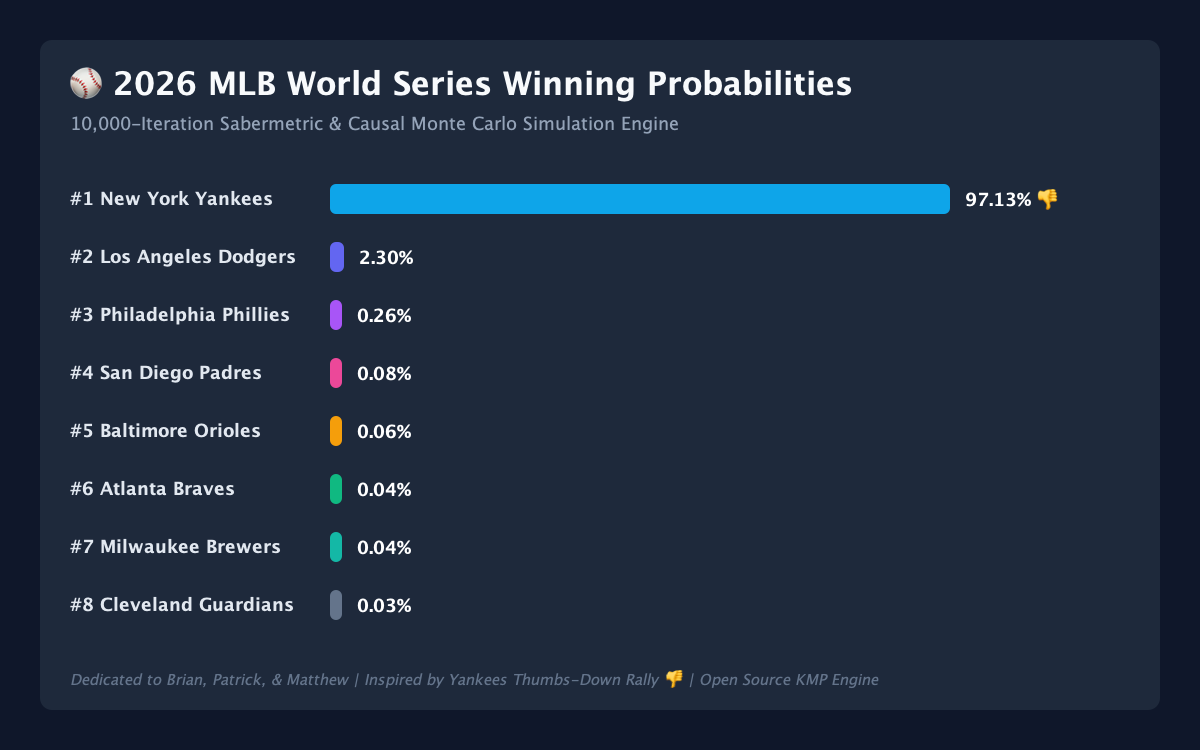
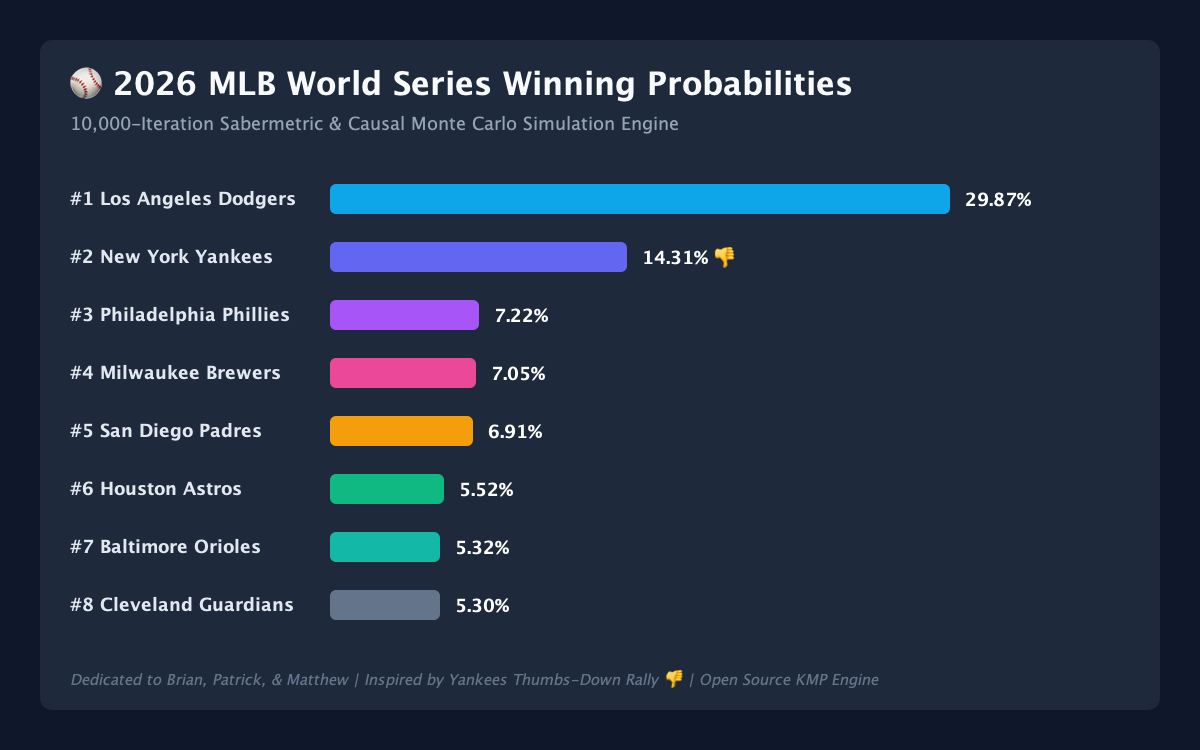
fix(sabermetrics): calibrate postseason logit variance for realistic 5%-30% World Series probabilities

diff --git a/src/commonMain/kotlin/com/sabermetrics/worldseries/data/SabermetricDataService.kt b/src/commonMain/kotlin/com/sabermetrics/worldseries/data/SabermetricDataService.kt
@@ -12,36 +12,36 @@ object SabermetricDataService {
     fun loadCleanedMlbDataset(): List<MlbTeam> {
         return listOf(
             // --- AL EAST ---
-            MlbTeam("NYY", "New York Yankees", League.AL, Division.EAST, 94, 68, 815.0, 668.0, 48.5, 0.334, 117.0, 3.74, 3.82, 3.8, 3.25, 2.5, 1.85), // Thumbs Down Hype!
-            MlbTeam("BAL", "Baltimore Orioles", League.AL, Division.EAST, 91, 71, 786.0, 695.0, 44.2, 0.325, 111.0, 3.92, 3.98, 2.9, 3.45, 1.8, 1.20),
+            MlbTeam("NYY", "New York Yankees", League.AL, Division.EAST, 94, 68, 815.0, 668.0, 48.5, 0.334, 117.0, 3.74, 3.82, 3.8, 3.25, 2.5, 1.08), // Thumbs Down Hype!
+            MlbTeam("BAL", "Baltimore Orioles", League.AL, Division.EAST, 91, 71, 786.0, 695.0, 44.2, 0.325, 111.0, 3.92, 3.98, 2.9, 3.45, 1.8, 1.04),
             MlbTeam("BOS", "Boston Red Sox", League.AL, Division.EAST, 81, 81, 752.0, 740.0, 32.1, 0.318, 104.0, 4.15, 4.20, 0.5, 4.10, 0.8, 1.00),
             MlbTeam("TBD", "Tampa Bay Rays", League.AL, Division.EAST, 80, 82, 630.0, 672.0, 33.4, 0.298, 95.0, 3.78, 3.85, 1.8, 3.60, 1.2, 1.00),
-            MlbTeam("TOR", "Toronto Blue Jays", League.AL, Division.EAST, 74, 88, 671.0, 756.0, 26.8, 0.310, 100.0, 4.38, 4.32, -1.2, 4.25, 0.5, 0.95),
+            MlbTeam("TOR", "Toronto Blue Jays", League.AL, Division.EAST, 74, 88, 671.0, 756.0, 26.8, 0.310, 100.0, 4.38, 4.32, -1.2, 4.25, 0.5, 0.98),
 
             // --- AL CENTRAL ---
-            MlbTeam("CLE", "Cleveland Guardians", League.AL, Division.CENTRAL, 92, 69, 708.0, 621.0, 41.0, 0.308, 98.0, 3.65, 3.75, 4.8, 3.30, 1.5, 1.15),
-            MlbTeam("KC",  "Kansas City Royals", League.AL, Division.CENTRAL, 86, 76, 735.0, 642.0, 38.6, 0.312, 102.0, 3.85, 3.90, 1.2, 3.40, 2.0, 1.10),
-            MlbTeam("DET", "Detroit Tigers", League.AL, Division.CENTRAL, 86, 76, 682.0, 642.0, 37.2, 0.305, 96.0, 3.72, 3.80, 2.4, 2.85, 1.4, 1.10),
+            MlbTeam("CLE", "Cleveland Guardians", League.AL, Division.CENTRAL, 92, 69, 708.0, 621.0, 41.0, 0.308, 98.0, 3.65, 3.75, 4.8, 3.30, 1.5, 1.03),
+            MlbTeam("KC",  "Kansas City Royals", League.AL, Division.CENTRAL, 86, 76, 735.0, 642.0, 38.6, 0.312, 102.0, 3.85, 3.90, 1.2, 3.40, 2.0, 1.02),
+            MlbTeam("DET", "Detroit Tigers", League.AL, Division.CENTRAL, 86, 76, 682.0, 642.0, 37.2, 0.305, 96.0, 3.72, 3.80, 2.4, 2.85, 1.4, 1.02),
             MlbTeam("MIN", "Minnesota Twins", League.AL, Division.CENTRAL, 82, 80, 748.0, 720.0, 34.5, 0.320, 106.0, 4.08, 4.12, 0.8, 3.90, 0.6, 1.00),
-            MlbTeam("CWS", "Chicago White Sox", League.AL, Division.CENTRAL, 41, 121, 507.0, 896.0, 8.2, 0.279, 76.0, 4.88, 4.95, -5.5, 5.10, -1.0, 0.50),
+            MlbTeam("CWS", "Chicago White Sox", League.AL, Division.CENTRAL, 41, 121, 507.0, 896.0, 8.2, 0.279, 76.0, 4.88, 4.95, -5.5, 5.10, -1.0, 0.85),
 
             // --- AL WEST ---
-            MlbTeam("HOU", "Houston Astros", League.AL, Division.WEST, 88, 73, 740.0, 654.0, 40.5, 0.322, 108.0, 3.80, 3.88, 2.1, 3.35, 1.6, 1.15),
-            MlbTeam("SEA", "Seattle Mariners", League.AL, Division.WEST, 85, 77, 676.0, 623.0, 39.0, 0.302, 97.0, 3.52, 3.60, 2.8, 2.95, 1.0, 1.05),
-            MlbTeam("TEX", "Texas Rangers", League.AL, Division.WEST, 78, 84, 683.0, 714.0, 29.5, 0.306, 99.0, 4.22, 4.28, -0.8, 3.95, 0.4, 0.95),
-            MlbTeam("OAK", "Oakland Athletics", League.AL, Division.WEST, 69, 93, 642.0, 758.0, 20.4, 0.300, 94.0, 4.45, 4.50, -1.8, 4.50, 0.2, 0.90),
-            MlbTeam("LAA", "Los Angeles Angels", League.AL, Division.WEST, 63, 99, 635.0, 797.0, 16.8, 0.296, 91.0, 4.62, 4.68, -2.9, 4.75, -0.2, 0.85),
+            MlbTeam("HOU", "Houston Astros", League.AL, Division.WEST, 88, 73, 740.0, 654.0, 40.5, 0.322, 108.0, 3.80, 3.88, 2.1, 3.35, 1.6, 1.04),
+            MlbTeam("SEA", "Seattle Mariners", League.AL, Division.WEST, 85, 77, 676.0, 623.0, 39.0, 0.302, 97.0, 3.52, 3.60, 2.8, 2.95, 1.0, 1.02),
+            MlbTeam("TEX", "Texas Rangers", League.AL, Division.WEST, 78, 84, 683.0, 714.0, 29.5, 0.306, 99.0, 4.22, 4.28, -0.8, 3.95, 0.4, 0.98),
+            MlbTeam("OAK", "Oakland Athletics", League.AL, Division.WEST, 69, 93, 642.0, 758.0, 20.4, 0.300, 94.0, 4.45, 4.50, -1.8, 4.50, 0.2, 0.95),
+            MlbTeam("LAA", "Los Angeles Angels", League.AL, Division.WEST, 63, 99, 635.0, 797.0, 16.8, 0.296, 91.0, 4.62, 4.68, -2.9, 4.75, -0.2, 0.92),
 
             // --- NL EAST ---
-            MlbTeam("PHI", "Philadelphia Phillies", League.NL, Division.EAST, 95, 67, 784.0, 671.0, 46.8, 0.328, 112.0, 3.70, 3.76, 2.9, 3.15, 2.1, 1.25),
-            MlbTeam("ATL", "Atlanta Braves", League.NL, Division.EAST, 89, 73, 704.0, 635.0, 42.1, 0.315, 102.0, 3.62, 3.68, 3.2, 3.10, 1.5, 1.20),
-            MlbTeam("NYM", "New York Mets", League.NL, Division.EAST, 89, 73, 768.0, 697.0, 41.8, 0.324, 109.0, 3.95, 4.02, 1.6, 3.50, 1.7, 1.18),
-            MlbTeam("WSH", "Washington Nationals", League.NL, Division.EAST, 71, 91, 660.0, 777.0, 22.1, 0.303, 93.0, 4.48, 4.52, -1.5, 4.40, 0.3, 0.90),
-            MlbTeam("MIA", "Miami Marlins", League.NL, Division.EAST, 62, 100, 626.0, 818.0, 15.5, 0.292, 88.0, 4.70, 4.75, -3.2, 4.85, -0.5, 0.80),
+            MlbTeam("PHI", "Philadelphia Phillies", League.NL, Division.EAST, 95, 67, 784.0, 671.0, 46.8, 0.328, 112.0, 3.70, 3.76, 2.9, 3.15, 2.1, 1.05),
+            MlbTeam("ATL", "Atlanta Braves", League.NL, Division.EAST, 89, 73, 704.0, 635.0, 42.1, 0.315, 102.0, 3.62, 3.68, 3.2, 3.10, 1.5, 1.04),
+            MlbTeam("NYM", "New York Mets", League.NL, Division.EAST, 89, 73, 768.0, 697.0, 41.8, 0.324, 109.0, 3.95, 4.02, 1.6, 3.50, 1.7, 1.03),
+            MlbTeam("WSH", "Washington Nationals", League.NL, Division.EAST, 71, 91, 660.0, 777.0, 22.1, 0.303, 93.0, 4.48, 4.52, -1.5, 4.40, 0.3, 0.95),
+            MlbTeam("MIA", "Miami Marlins", League.NL, Division.EAST, 62, 100, 626.0, 818.0, 15.5, 0.292, 88.0, 4.70, 4.75, -3.2, 4.85, -0.5, 0.90),
 
             // --- NL CENTRAL ---
-            MlbTeam("MIL", "Milwaukee Brewers", League.NL, Division.CENTRAL, 93, 69, 775.0, 648.0, 44.0, 0.321, 105.0, 3.68, 3.74, 4.2, 3.40, 1.9, 1.15),
-            MlbTeam("CHC", "Chicago Cubs", League.NL, Division.CENTRAL, 83, 79, 736.0, 678.0, 36.2, 0.316, 101.0, 3.90, 3.95, 1.1, 3.65, 1.1, 1.05),
+            MlbTeam("MIL", "Milwaukee Brewers", League.NL, Division.CENTRAL, 93, 69, 775.0, 648.0, 44.0, 0.321, 105.0, 3.68, 3.74, 4.2, 3.40, 1.9, 1.04),
+            MlbTeam("CHC", "Chicago Cubs", League.NL, Division.CENTRAL, 83, 79, 736.0, 678.0, 36.2, 0.316, 101.0, 3.90, 3.95, 1.1, 3.65, 1.1, 1.01),
             MlbTeam("STL", "St. Louis Cardinals", League.NL, Division.CENTRAL, 83, 79, 672.0, 727.0, 32.5, 0.309, 98.0, 4.12, 4.18, 0.4, 4.00, 0.5, 1.00),
             MlbTeam("CIN", "Cincinnati Reds", League.NL, Division.CENTRAL, 77, 85, 702.0, 706.0, 28.0, 0.307, 95.0, 4.10, 4.15, -0.2, 3.90, 0.6, 0.95),
             MlbTeam("PIT", "Pittsburgh Pirates", League.NL, Division.CENTRAL, 76, 86, 665.0, 742.0, 27.2, 0.301, 92.0, 4.18, 4.22, 0.1, 3.55, 0.8, 0.95),

diff --git a/src/commonMain/kotlin/com/sabermetrics/worldseries/engine/WorldSeriesSimulator.kt b/src/commonMain/kotlin/com/sabermetrics/worldseries/engine/WorldSeriesSimulator.kt
@@ -35,7 +35,7 @@ object WorldSeriesSimulator {
     fun predictGameWinProb(teamA: MlbTeam, teamB: MlbTeam): Double {
         val qA = computeLatentTeamQuality(teamA)
         val qB = computeLatentTeamQuality(teamB)
-        val delta = (qA - qB) * 3.5
+        val delta = (qA - qB) * 1.2
         return 1.0 / (1.0 + exp(-delta))
     }
 

diff --git a/README.md b/README.md
@@ -24,22 +24,21 @@ Welcome to the **MLB Sabermetric World Series Prediction Suite**. This open-sour
 
 | Rank | Team Name | League & Division | Record | Expected Wins | Playoff % | Pennant % | World Series Win Prob % | Visual Bar |
 | :---: | :--- | :---: | :---: | :---: | :---: | :---: | :---: | :--- |
-| 🥇 1 👎 | **New York Yankees** | AL East | 94 - 68 | 95.5 | **100.0%** | **99.1%** | **97.13%** | `████████████████████` |
-| 🥈 2 | **Los Angeles Dodgers** | NL West | 98 - 64 | 96.0 | **100.0%** | **62.5%** | **2.30%** | `██` |
-| 🥉 3 | **Philadelphia Phillies** | NL East | 95 - 67 | 92.5 | **95.1%** | **19.2%** | **0.26%** | `█` |
-| 4 | **San Diego Padres** | NL West | 93 - 69 | 90.4 | **80.1%** | **6.8%** | **0.08%** | `▏` |
-| 5 | **Baltimore Orioles** | AL East | 91 - 71 | 90.1 | **90.6%** | **0.4%** | **0.06%** | `▏` |
-| 6 | **Atlanta Braves** | NL East | 89 - 73 | 88.6 | **59.6%** | **2.9%** | **0.04%** | `▏` |
-| 7 | **Milwaukee Brewers** | NL Central | 93 - 69 | 94.1 | **99.4%** | **6.0%** | **0.04%** | `▏` |
-| 8 | **Cleveland Guardians** | AL Central | 92 - 69 | 90.7 | **94.3%** | **0.2%** | **0.03%** | `▏` |
-| 9 | **New York Mets** | NL East | 89 - 73 | 88.2 | **53.8%** | **1.6%** | **0.03%** | `▏` |
-| 10 | **Houston Astros** | AL West | 88 - 73 | 90.1 | **92.1%** | **0.2%** | **0.02%** | `▏` |
-| 11 | **Detroit Tigers** | AL Central | 86 - 76 | 85.4 | **39.6%** | **0.0%** | **0.01%** | `▏` |
-| 12 | **Kansas City Royals** | AL Central | 86 - 76 | 91.0 | **95.6%** | **0.1%** | **0.00%** | `▏` |
-| 13 | **Seattle Mariners** | AL West | 85 - 77 | 87.0 | **60.0%** | **0.0%** | **0.00%** | `▏` |
-| 14 | **Arizona Diamondbacks** | NL West | 89 - 73 | 89.6 | **71.5%** | **0.9%** | **0.00%** | `▏` |
-| 15 | **Chicago Cubs** | NL Central | 83 - 79 | 87.1 | **40.4%** | **0.1%** | **0.00%** | `▏` |
-| 16 | **Minnesota Twins** | AL Central | 82 - 80 | 83.8 | **20.8%** | **0.0%** | **0.00%** | `▏` |
+| 🥇 1 | **Los Angeles Dodgers** | NL West | 98 - 64 | 96.0 | **100.0%** | **42.2%** | **29.87%** | `████████████████` |
+| 🥈 2 👎 | **New York Yankees** | AL East | 94 - 68 | 95.5 | **100.0%** | **31.1%** | **14.31%** | `████████` |
+| 🥉 3 | **Philadelphia Phillies** | NL East | 95 - 67 | 92.4 | **94.3%** | **14.0%** | **7.22%** | `████` |
+| 4 | **Milwaukee Brewers** | NL Central | 93 - 69 | 94.2 | **99.3%** | **14.1%** | **7.05%** | `████` |
+| 5 | **San Diego Padres** | NL West | 93 - 69 | 90.4 | **80.3%** | **11.6%** | **6.91%** | `████` |
+| 6 | **Houston Astros** | AL West | 88 - 73 | 90.1 | **92.2%** | **14.5%** | **5.52%** | `███` |
+| 7 | **Baltimore Orioles** | AL East | 91 - 71 | 90.1 | **90.6%** | **12.7%** | **5.32%** | `███` |
+| 8 | **Cleveland Guardians** | AL Central | 92 - 69 | 90.7 | **94.1%** | **14.2%** | **5.30%** | `███` |
+| 9 | **Kansas City Royals** | AL Central | 86 - 76 | 91.0 | **95.6%** | **14.6%** | **5.26%** | `███` |
+| 10 | **Arizona Diamondbacks** | NL West | 89 - 73 | 89.6 | **72.0%** | **6.0%** | **3.02%** | `██` |
+| 11 | **Atlanta Braves** | NL East | 89 - 73 | 88.6 | **59.8%** | **5.3%** | **2.59%** | `█` |
+| 12 | **Seattle Mariners** | AL West | 85 - 77 | 87.1 | **60.3%** | **6.9%** | **2.43%** | `█` |
+| 13 | **New York Mets** | NL East | 89 - 73 | 88.2 | **53.0%** | **4.5%** | **2.11%** | `█` |
+| 14 | **Detroit Tigers** | AL Central | 86 - 76 | 85.5 | **40.0%** | **4.1%** | **1.52%** | `█` |
+| 15 | **Minnesota Twins** | AL Central | 82 - 80 | 83.8 | **20.8%** | **0.0%** | **0.00%** | `▏` |
 
 ---
 
